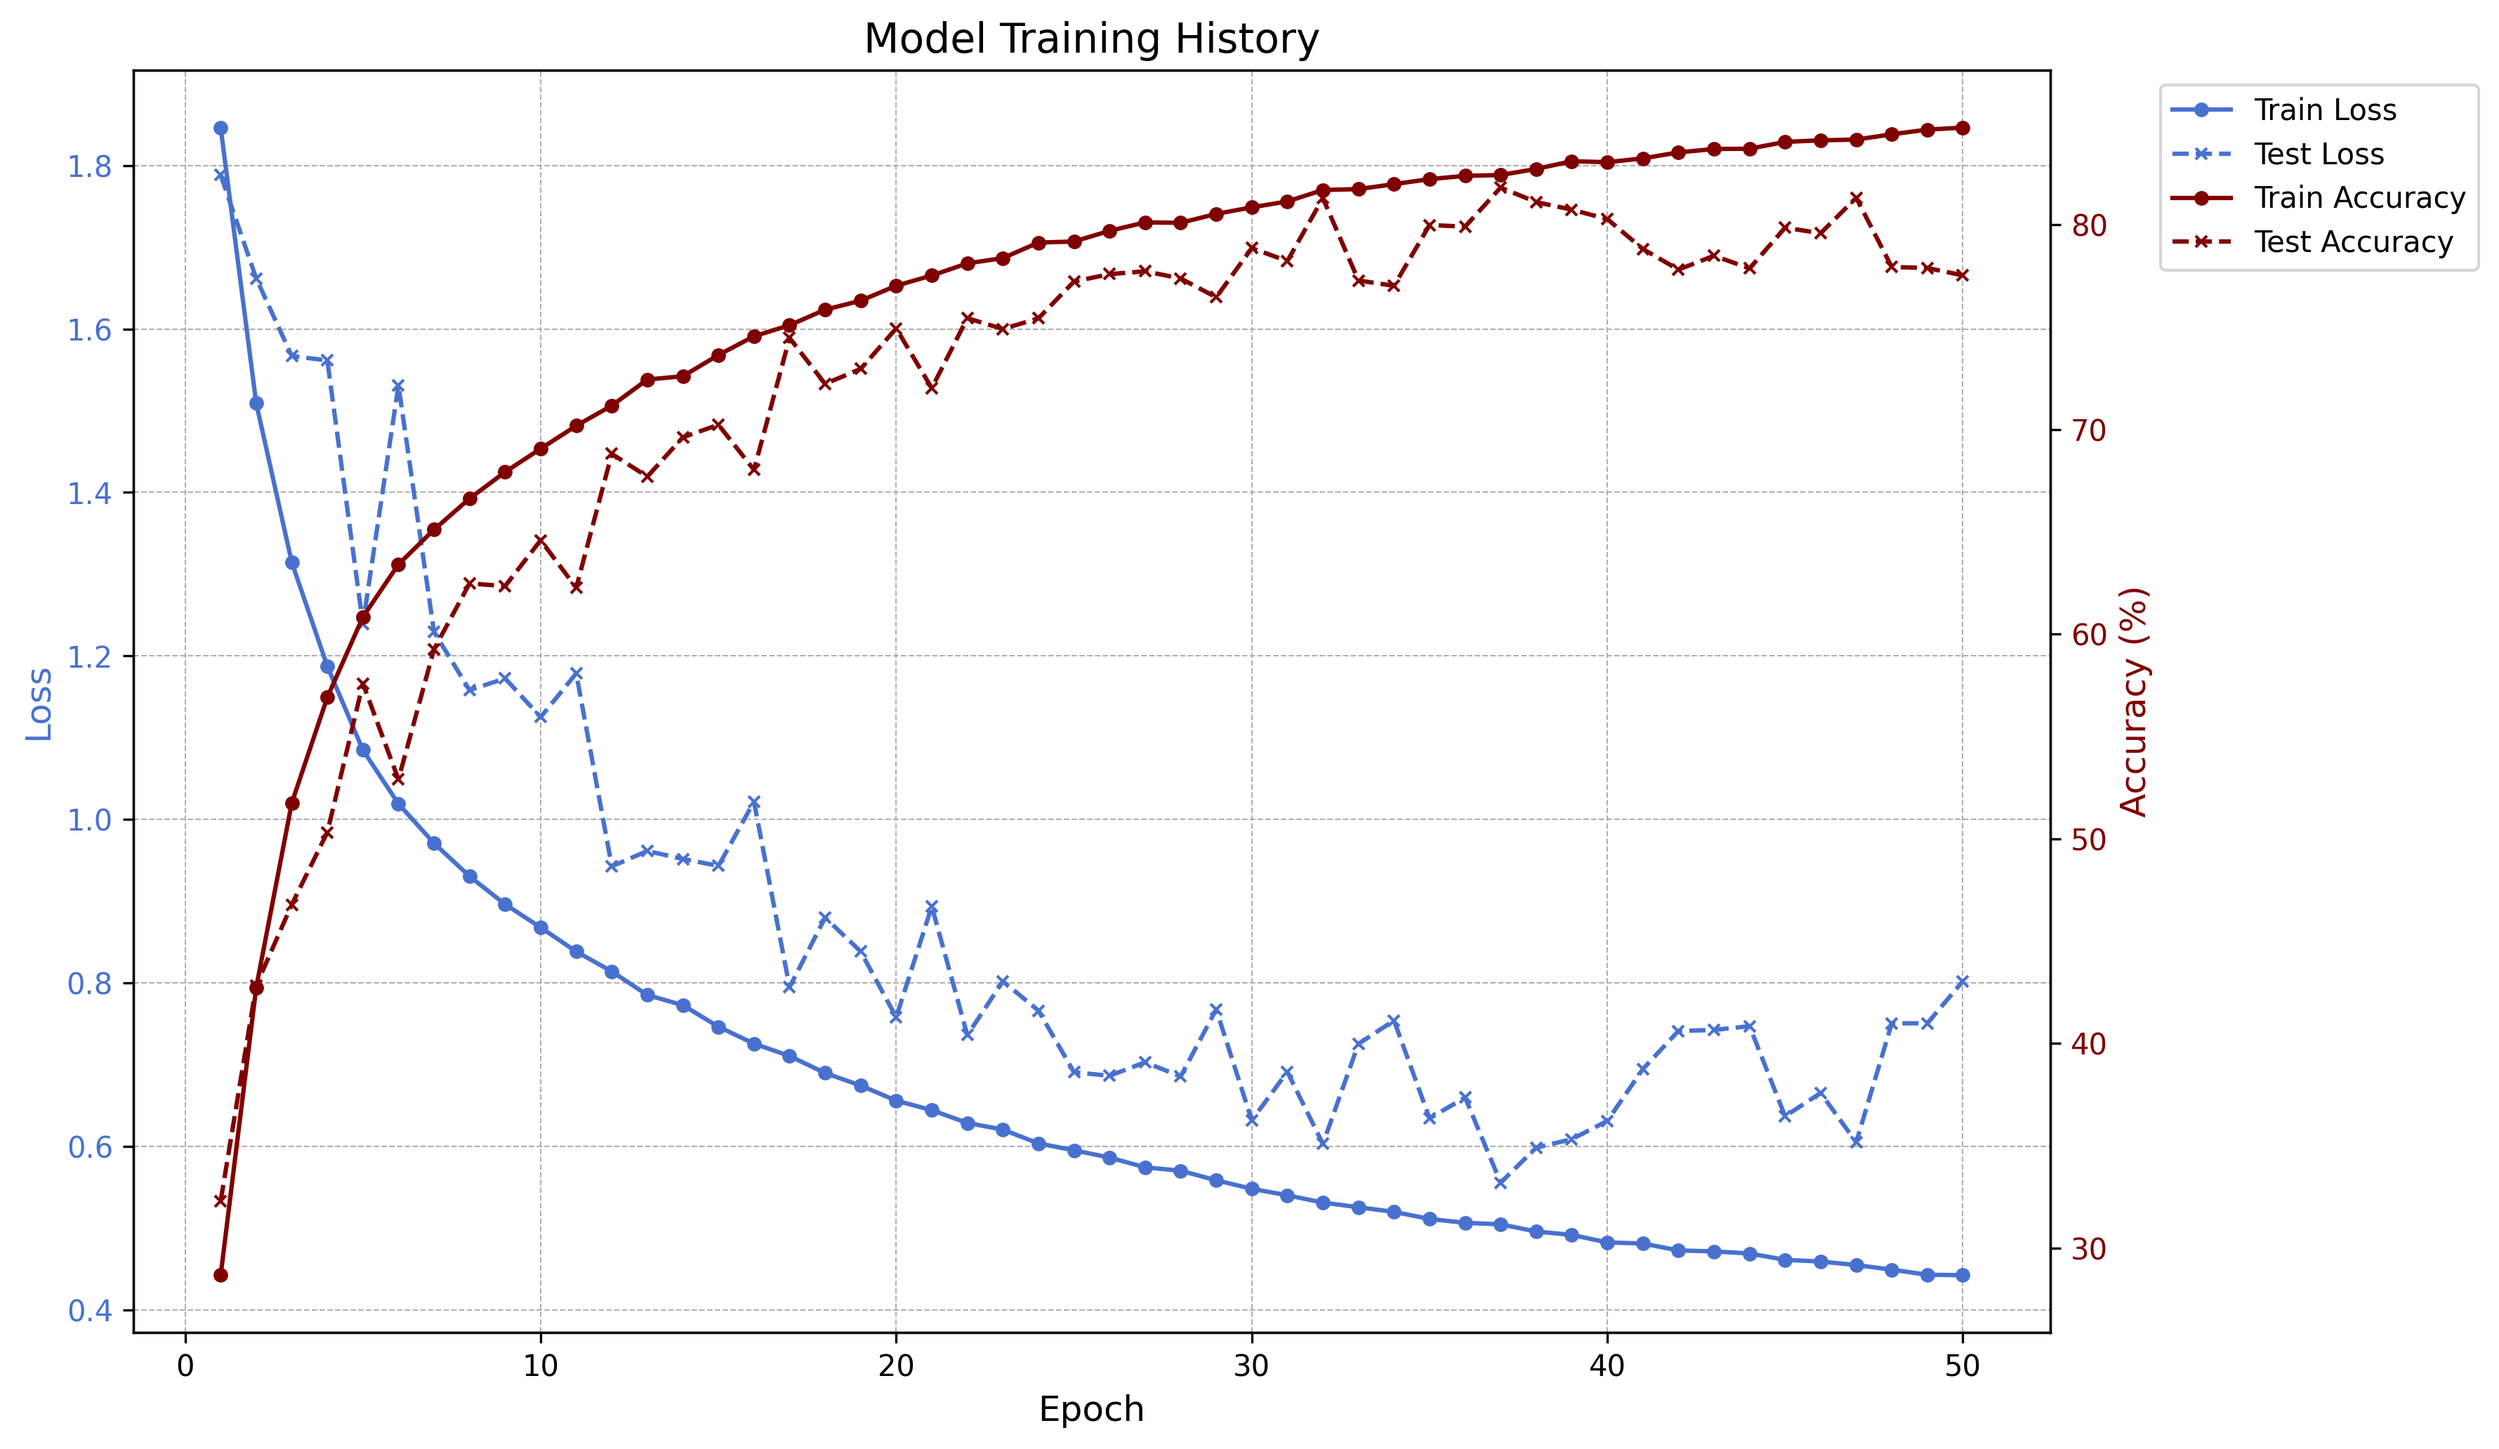
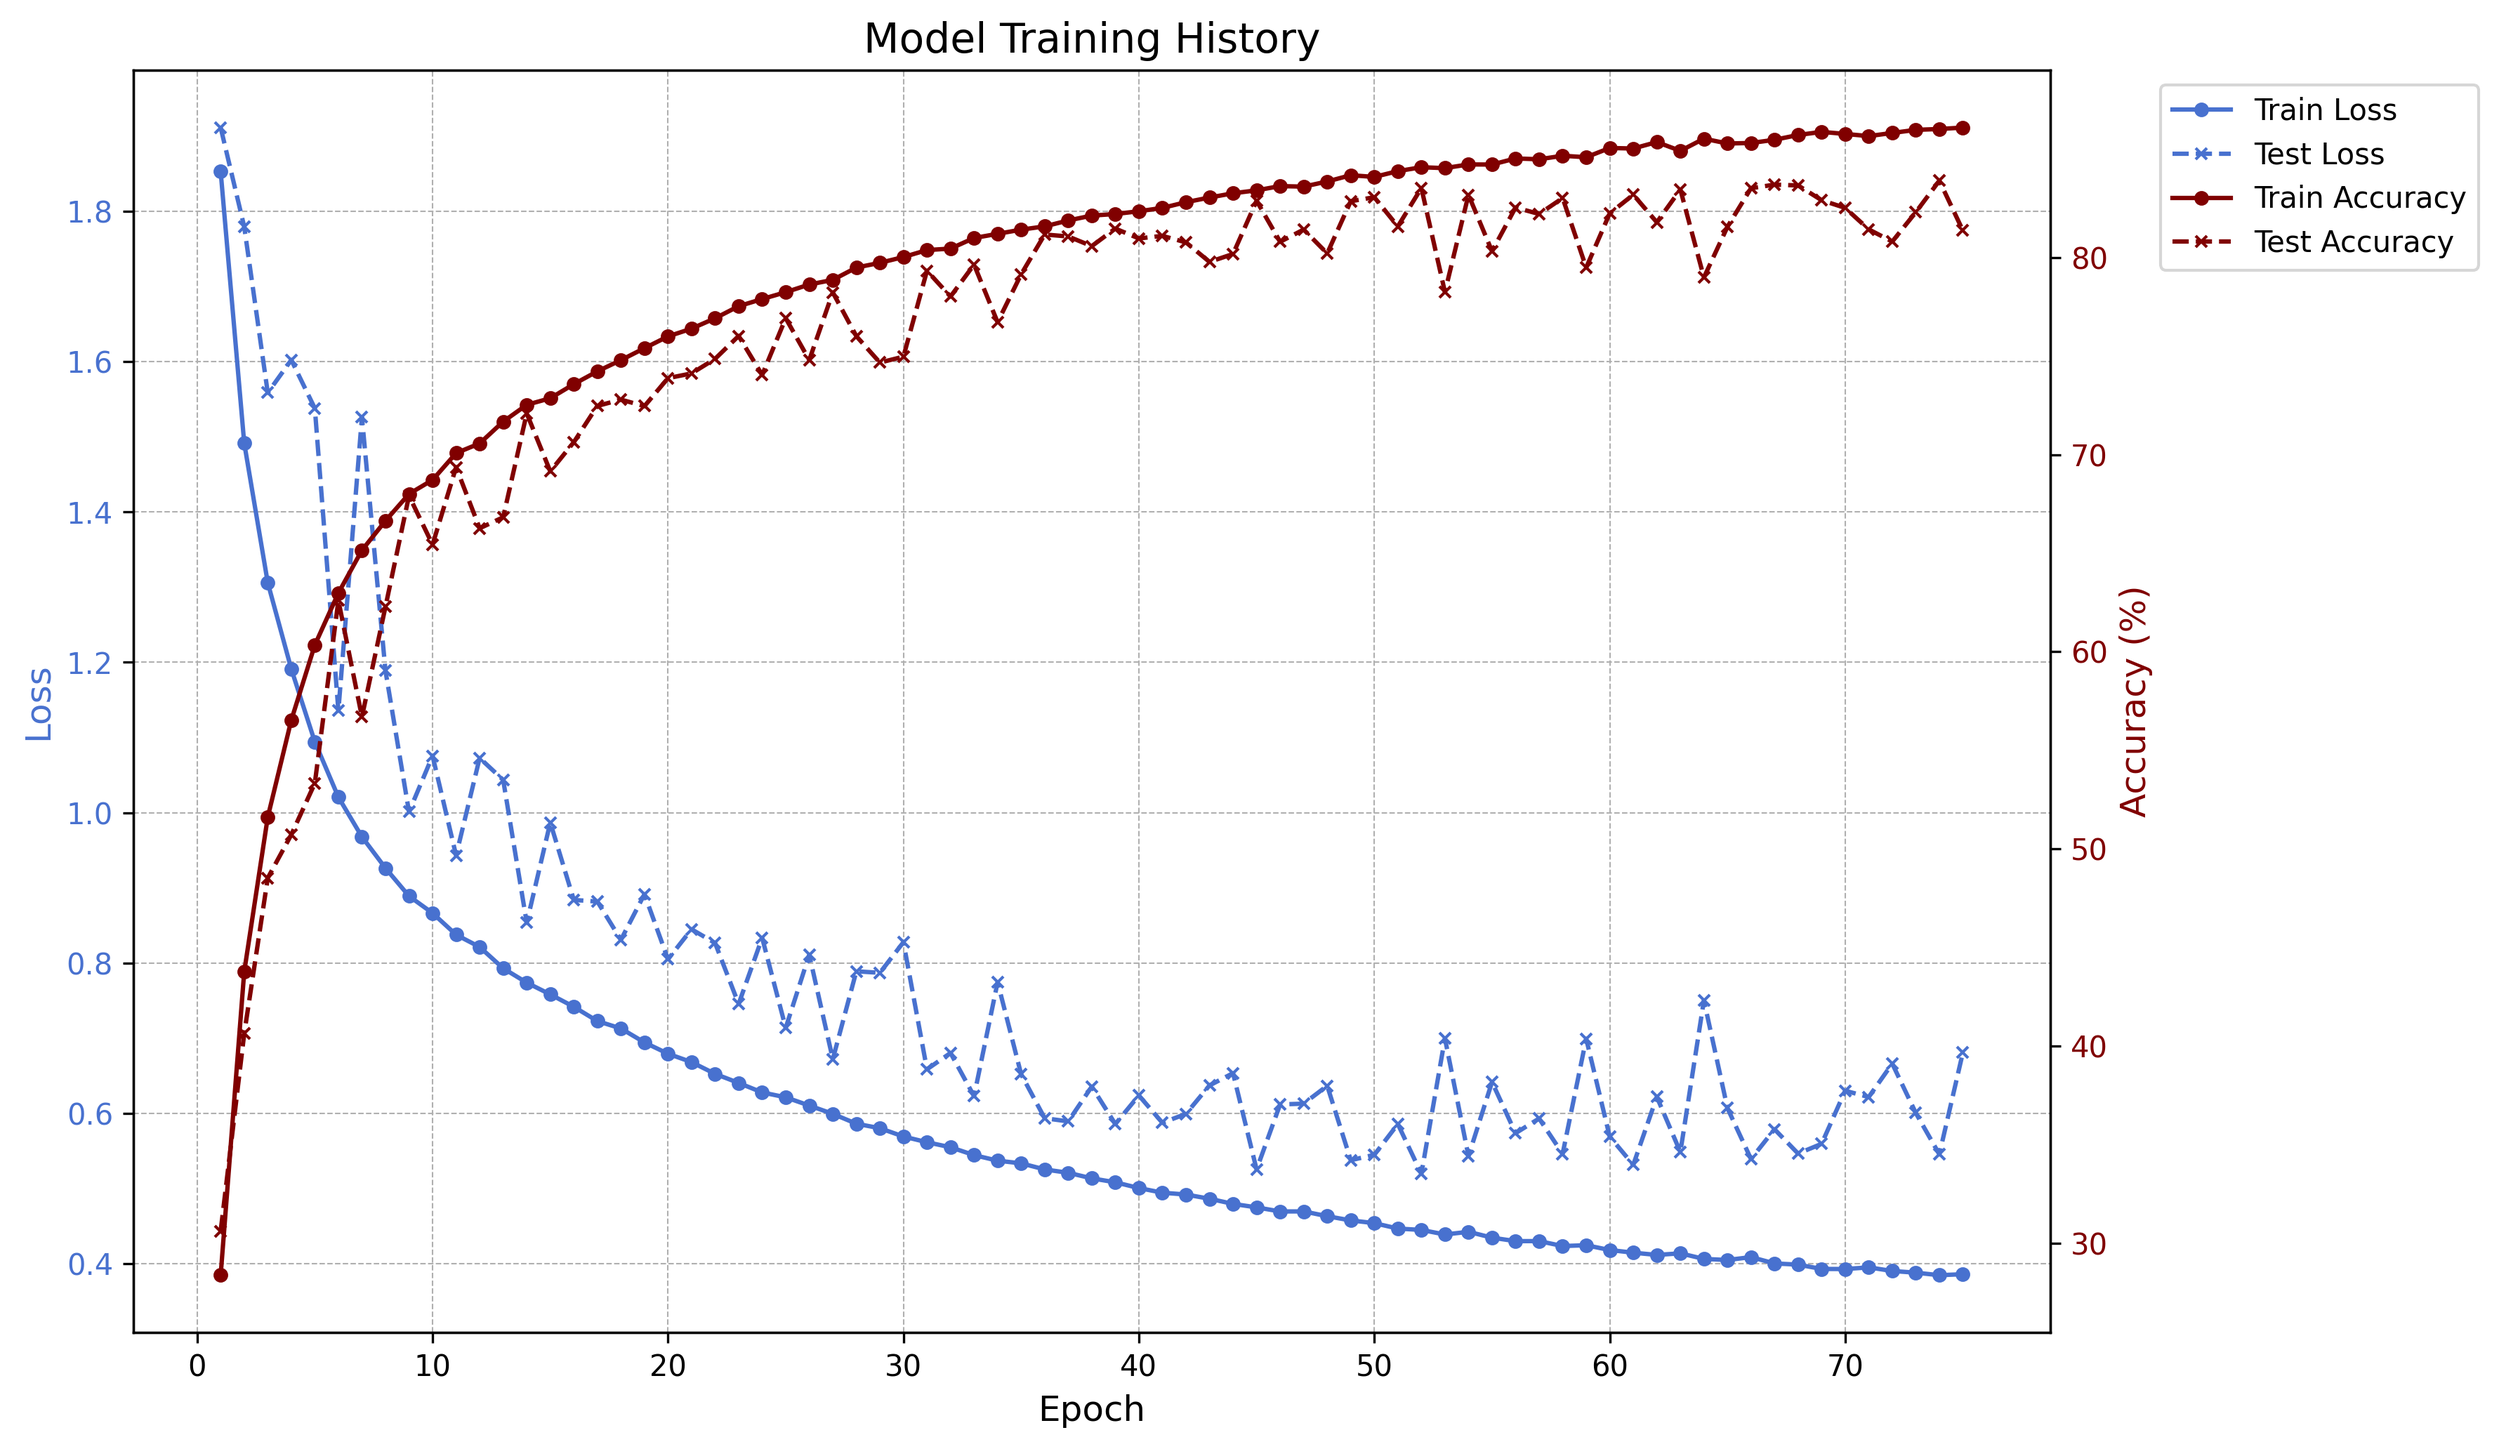
final tiny wideresnet code

diff --git a/models/adversarial_basics_cnn/train.py b/models/adversarial_basics_cnn/train.py
@@ -238,7 +238,7 @@ def main():
     criterion = torch.nn.CrossEntropyLoss()
     optimizer = torch.optim.Adam(model.parameters(), lr=5e-4)
 
-    epochs = 50
+    epochs = 75
     
     history = {'train_loss': [], 'train_acc': [], 'test_loss': [], 'test_acc': []}
 
